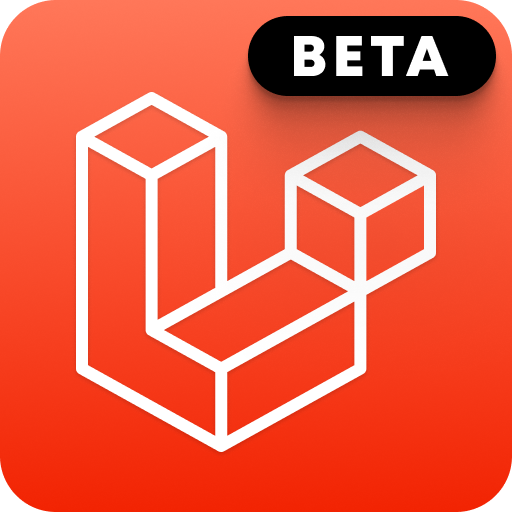
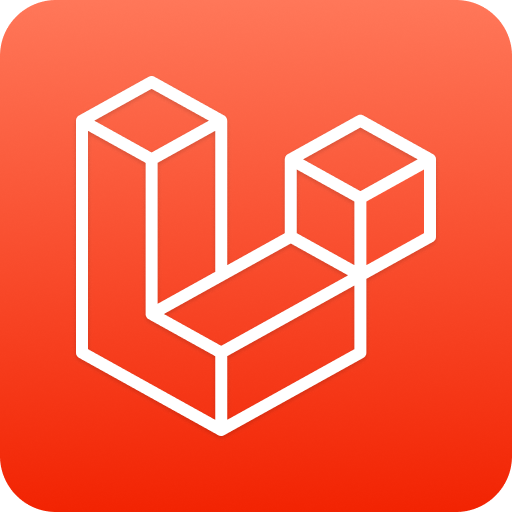
stable

diff --git a/README.md b/README.md
@@ -1,14 +1,12 @@
 # Official Laravel VS Code Extension
 
-> **Note:** This extension is currently in Open Beta Testing. Please refer to the [support instructions](./SUPPORT.md) on how to file a bug report or feature request.
-
 Below you'll find a list of features as well as a roadmap with features we will be integrating soon.
 
 **Please Note:**
 
--   This extension will occasionally boot your app in the background to collect information about your app for use in autocompletion, linking, hovering, and diagnostics
--   When you first install the extension it will download a small binary to your machine, we use this binary for PHP parsing
--   This extension is intended to provide Laravel-specific intelligence, not general PHP intelligence. If you are currently using an extension for general PHP intelligence, it is recommended to continue using that in conjunction with this extension.
+- This extension will occasionally boot your app in the background to collect information about your app for use in autocompletion, linking, hovering, and diagnostics
+- When you first install the extension it will download a small binary to your machine, we use this binary for PHP parsing
+- This extension is intended to provide Laravel-specific intelligence, not general PHP intelligence. If you are currently using an extension for general PHP intelligence, it is recommended to continue using that in conjunction with this extension.
 
 ## Supported Versions
 
@@ -29,10 +27,10 @@ App::isShared('auth.driver')
 // etc
 ```
 
--   Auto-completion
--   Links directly to binding
--   Warns when binding not found
--   Hoverable
+- Auto-completion
+- Links directly to binding
+- Warns when binding not found
+- Hoverable
 
 ### Assets
 
@@ -40,9 +38,9 @@ App::isShared('auth.driver')
 asset('my-amazing-jpeg.png')
 ```
 
--   Auto-completion
--   Links directly to asset
--   Warns when asset not found
+- Auto-completion
+- Links directly to asset
+- Warns when asset not found
 
 <!--
 ### Auth
@@ -60,7 +58,7 @@ Gate::allows('viewNova');
 
 ### Blade
 
--   Syntax highlighting
+- Syntax highlighting
 
 ### Config
 
@@ -75,17 +73,17 @@ config()->string('broadcasting.connections.reverb.app_id');
 // etc
 ```
 
--   Auto-completion
--   Links directly to config value
--   Warns when config not found
--   Hoverable
+- Auto-completion
+- Links directly to config value
+- Warns when config not found
+- Hoverable
 
 ### Eloquent
 
--   Method auto-completion
--   Field auto-completion (e.g. `where` methods, `create`/`make`/object creation)
--   Relationship auto-completion (e.g. `with` method + `with` with array keys)
--   Sub-query auto-completion ( `with` with array keys + value as closure)
+- Method auto-completion
+- Field auto-completion (e.g. `where` methods, `create`/`make`/object creation)
+- Relationship auto-completion (e.g. `with` method + `with` with array keys)
+- Sub-query auto-completion ( `with` with array keys + value as closure)
 
 ### Env
 
@@ -94,12 +92,12 @@ env('REVERB_APP_ID');
 Env::get('REVERB_APP_ID');
 ```
 
--   Auto-completion
--   Links directly to env value
--   Warns when env not found, offers quick fixes:
-    -   Add to `.env`
-    -   Copy value from `.env.example`
--   Hoverable
+- Auto-completion
+- Links directly to env value
+- Warns when env not found, offers quick fixes:
+    - Add to `.env`
+    - Copy value from `.env.example`
+- Hoverable
 
 ### Inertia
 
@@ -109,11 +107,11 @@ Inertia::render('Pages/Dashboard');
 Route::inertia('/dashboard', 'Pages/Dashboard');
 ```
 
--   Auto-completion
--   Links directly to JS view
--   Warns when view not found, offers quick fixes:
-    -   Create view
--   Hoverable
+- Auto-completion
+- Links directly to JS view
+- Warns when view not found, offers quick fixes:
+    - Create view
+- Hoverable
 
 **Note:** If the extension is unable to find your Inertia views, you may need to update your `inertia.testing.page_paths` and/or `inertia.testing.page_extensions` config values.
 
@@ -131,10 +129,10 @@ redirect()->route('dashboard');
 // etc
 ```
 
--   Auto-completion
--   Links directly to route definition
--   Warns when route not found
--   Hoverable
+- Auto-completion
+- Links directly to route definition
+- Warns when route not found
+- Hoverable
 
 ### Middleware
 
@@ -145,10 +143,10 @@ Route::withoutMiddleware('auth');
 // etc
 ```
 
--   Auto-completion
--   Links directly to middleware handling
--   Warns when middleware not found
--   Hoverable
+- Auto-completion
+- Links directly to middleware handling
+- Warns when middleware not found
+- Hoverable
 
 ### Translation
 
@@ -160,11 +158,11 @@ Lang::get('auth.failed');
 // etc
 ```
 
--   Auto-completion
--   Links directly to translation
--   Warns when translation not found
--   Hoverable
--   Parameter auto-completion
+- Auto-completion
+- Links directly to translation
+- Warns when translation not found
+- Hoverable
+- Parameter auto-completion
 
 ### Validation
 
@@ -175,7 +173,7 @@ request()->sometimes(['name' => 'required']);
 // etc
 ```
 
--   Auto-completion for strings/arrays (not "|" just yet)
+- Auto-completion for strings/arrays (not "|" just yet)
 
 ### View
 
@@ -184,19 +182,19 @@ view('dashboard');
 Route::view('/', 'home');
 ```
 
--   Auto-completion
--   Links directly to Blade view
--   Warns when view not found, offers quick fixes:
-    -   Create view
--   Hoverable
+- Auto-completion
+- Links directly to Blade view
+- Warns when view not found, offers quick fixes:
+    - Create view
+- Hoverable
 
 ## On the Roadmap
 
--   Integration with VS Code test runner
--   Livewire support
--   Volt support
--   Pint support
--   Better autocompletion, linking, hovering, and diagnostics in Blade files
+- Integration with VS Code test runner
+- Livewire support
+- Volt support
+- Pint support
+- Better autocompletion, linking, hovering, and diagnostics in Blade files
 
 ### LSP Availability
 

diff --git a/CHANGELOG.md b/CHANGELOG.md
@@ -6,6 +6,10 @@ All notable changes to the Laravel extension will be documented in this file.
 
 - Nothing yet
 
+## [v1.0.0]
+
+- Stable release!
+
 ## [0.1.21]
 
 - Additional Livewire, Volt, and Blade support ([#261](https://github.com/laravel/vs-code-extension/pull/261))
